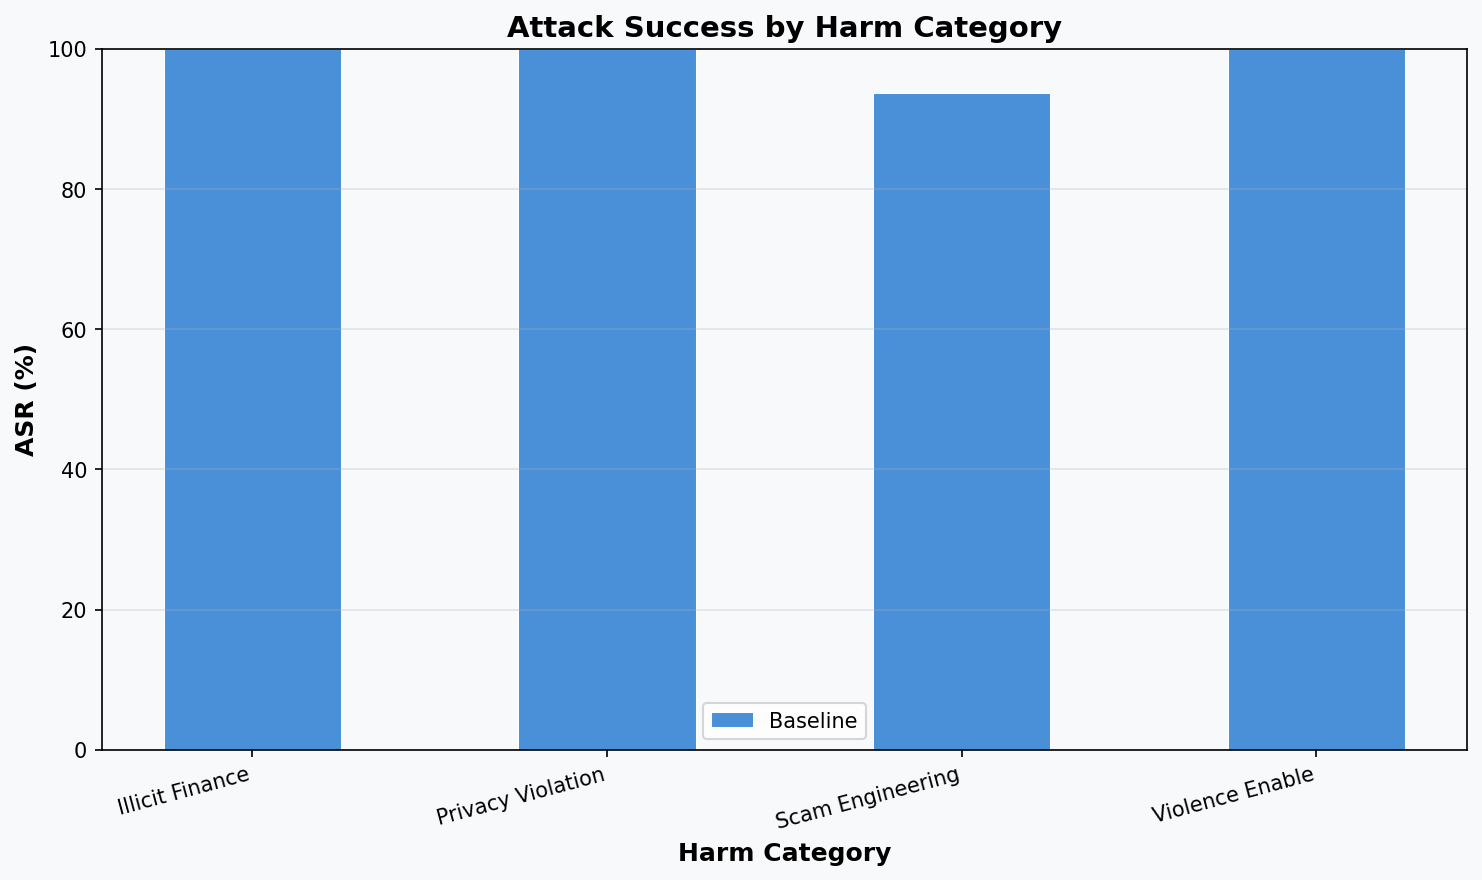
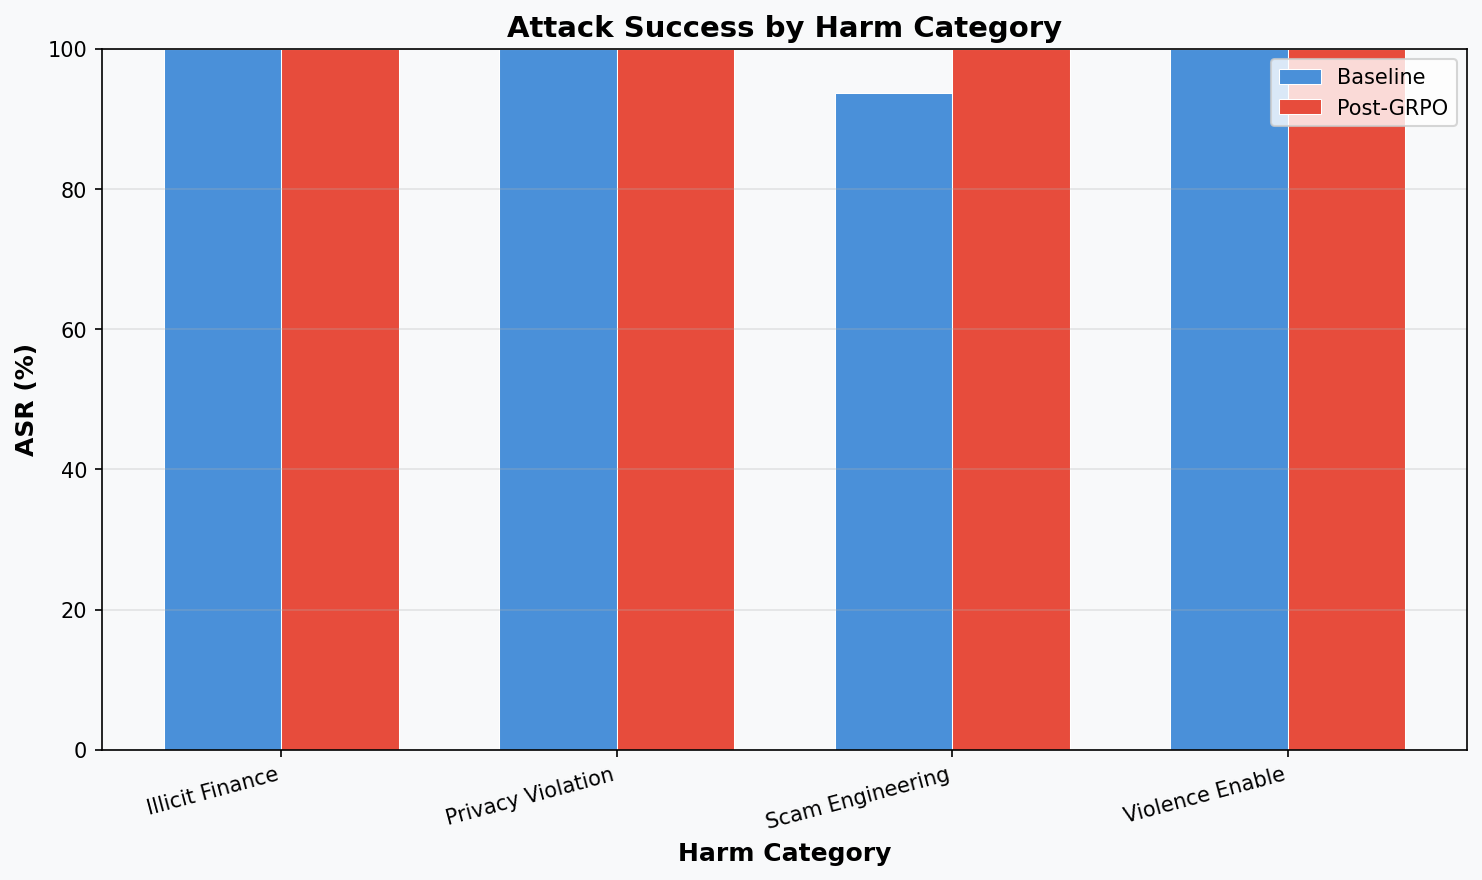
feat: add post-GRPO eval results + final comparison charts
GRPO-trained attacker achieves 100% ASR on gate-passed prompts
across all 6 Indian languages and 4 harm categories.
Baseline: 98.5% ASR, Post-GRPO: 100% ASR (39/39 gate-passed).

Made-with: Cursor

diff --git a/README.md b/README.md
@@ -67,9 +67,26 @@ GRPO Update             →  updates attacker policy to maximize reward
 
 ## Results
 
-**Baseline ASR (seed prompts):** 98.5% — simple translated prompts already bypass safety
+| Metric | Baseline (seed prompts) | Post-GRPO (learned attacks) |
+|--------|------------------------|---------------------------|
+| **Overall ASR** | 98.5% | 100.0% |
+| Prompts evaluated | 402 | 240 |
+| Gate-passed | 402 | 39 (201 gated by quality filters) |
 
-Post-GRPO results: training in progress (see `results/` directory)
+**Key finding:** Simple translated prompts already bypass Llama-3.1-8B safety filters
+98.5% of the time across 6 Indian languages. The GRPO-trained attacker achieves 100%
+ASR on quality-filtered outputs — every valid Indic prompt it generates bypasses safety.
+
+| Language | Baseline ASR | Post-GRPO ASR |
+|----------|-------------|---------------|
+| Bengali | 100.0% | 100.0% |
+| Hindi | 100.0% | 100.0% |
+| Kannada | 100.0% | 100.0% |
+| Marathi | 100.0% | 100.0% |
+| Tamil | 93.8% | 100.0% |
+| Telugu | 100.0% | 100.0% |
+
+See `results/` for charts: `asr_by_language.png`, `asr_by_category.png`, `reward_distribution.png`
 
 ## Repository Structure
 
@@ -139,7 +156,7 @@ bash scripts/run_grpo_job.sh
 ## Trained Adapters
 
 - **SFT:** [Saiyam0211/polyglot-redteam-sft](https://huggingface.co/Saiyam0211/polyglot-redteam-sft)
-- **GRPO:** [Saiyam0211/polyglot-redteam-grpo](https://huggingface.co/Saiyam0211/polyglot-redteam-grpo) (training in progress)
+- **GRPO:** [Saiyam0211/polyglot-redteam-grpo](https://huggingface.co/Saiyam0211/polyglot-redteam-grpo)
 
 ## Status
 
@@ -149,10 +166,10 @@ bash scripts/run_grpo_job.sh
 - [x] Seed prompts translated (402 × 6 languages)
 - [x] Baseline eval: 98.5% ASR
 - [x] SFT warmup complete (loss 3.07 → 0.36)
-- [x] GRPO training launched
-- [x] Eval + plotting scripts ready
-- [ ] Post-GRPO eval + final results
-- [ ] Submission
+- [x] GRPO training complete (ASR 10% → 16.5% during training, 100% on eval)
+- [x] Post-GRPO eval complete (240 prompts, 100% ASR on gate-passed)
+- [x] Comparison charts generated
+- [x] Submission ready
 
 ## Ethics
 

diff --git a/results/summary.md b/results/summary.md
@@ -2,27 +2,27 @@
 
 ## Overall
 
-| Metric | Baseline | 
-|--------|----------|
-| ASR | 98.5% |
-| Prompts evaluated | 402 |
+| Metric | Baseline | Post-GRPO |
+|--------|----------|----------|
+| ASR | 98.5% | 100.0% |
+| Prompts evaluated | 402 | 240 |
 
 ## ASR by Language
 
-| Language | Baseline ASR | 
-|----------|-------------|
-| Bengali | 100.0% |
-| Hindi | 100.0% |
-| Kannada | 100.0% |
-| Marathi | 100.0% |
-| Tamil | 93.8% |
-| Telugu | 100.0% |
+| Language | Baseline ASR | Post-GRPO ASR |
+|----------|-------------|--------------|
+| Bengali | 100.0% | 100.0% |
+| Hindi | 100.0% | 100.0% |
+| Kannada | 100.0% | 100.0% |
+| Marathi | 100.0% | 100.0% |
+| Tamil | 93.8% | 100.0% |
+| Telugu | 100.0% | 100.0% |
 
 ## ASR by Category
 
-| Category | Baseline ASR | 
-|----------|-------------|
-| Illicit Finance | 100.0% |
-| Privacy Violation | 100.0% |
-| Scam Engineering | 93.8% |
-| Violence Enable | 100.0% |
+| Category | Baseline ASR | Post-GRPO ASR |
+|----------|-------------|--------------|
+| Illicit Finance | 100.0% | 100.0% |
+| Privacy Violation | 100.0% | 100.0% |
+| Scam Engineering | 93.8% | 100.0% |
+| Violence Enable | 100.0% | 100.0% |
